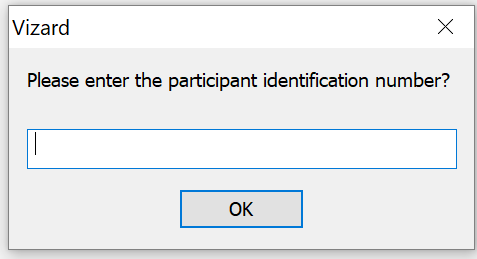
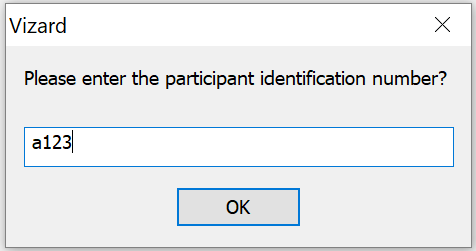
readme and documentation

Changed region(s): [[0.0, 0.0, 1.0, 1.0], [0.3529, 0.7251, 0.6471, 0.9203]]

diff --git a/README.md b/README.md
@@ -19,6 +19,11 @@ scene 2A|scene 2B |scene 2C | ...
 - Record participant ID
 - Allow or disallow existing participant ID
 - Save participants list
+</br></br>
+
+<img src="img/participant.PNG" width=23%>
+<img src="img/participant_1.PNG" width=23%>
+<img src="img/participant_3.PNG" width=23%>
 
 ### Experiment phasing
 - Warmup and practice phase
